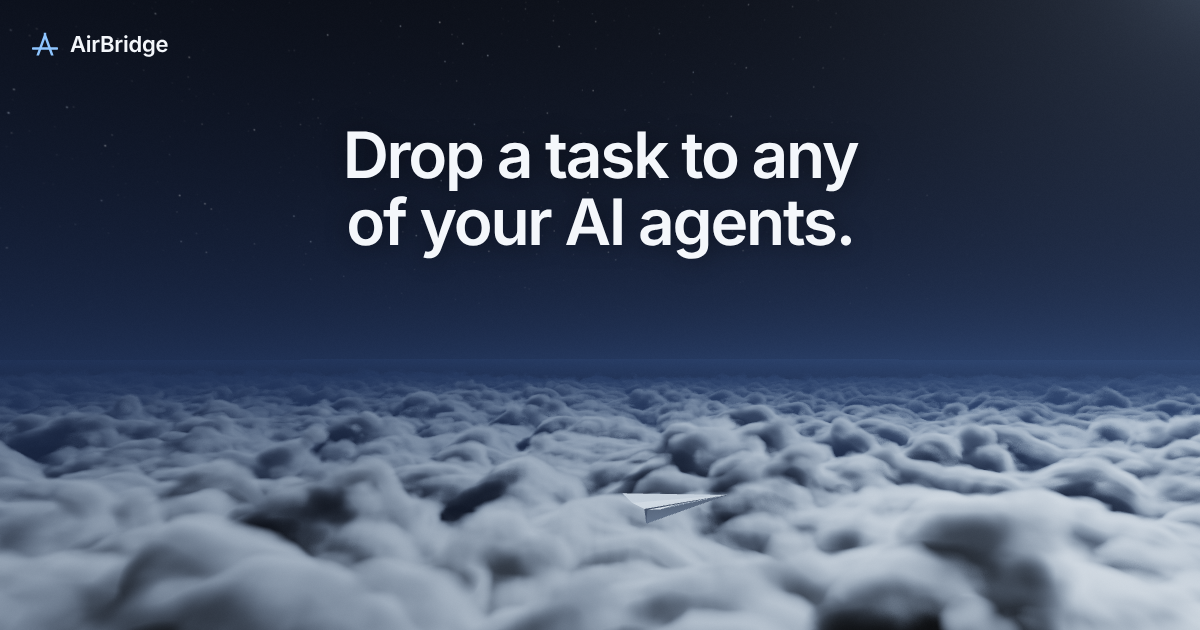
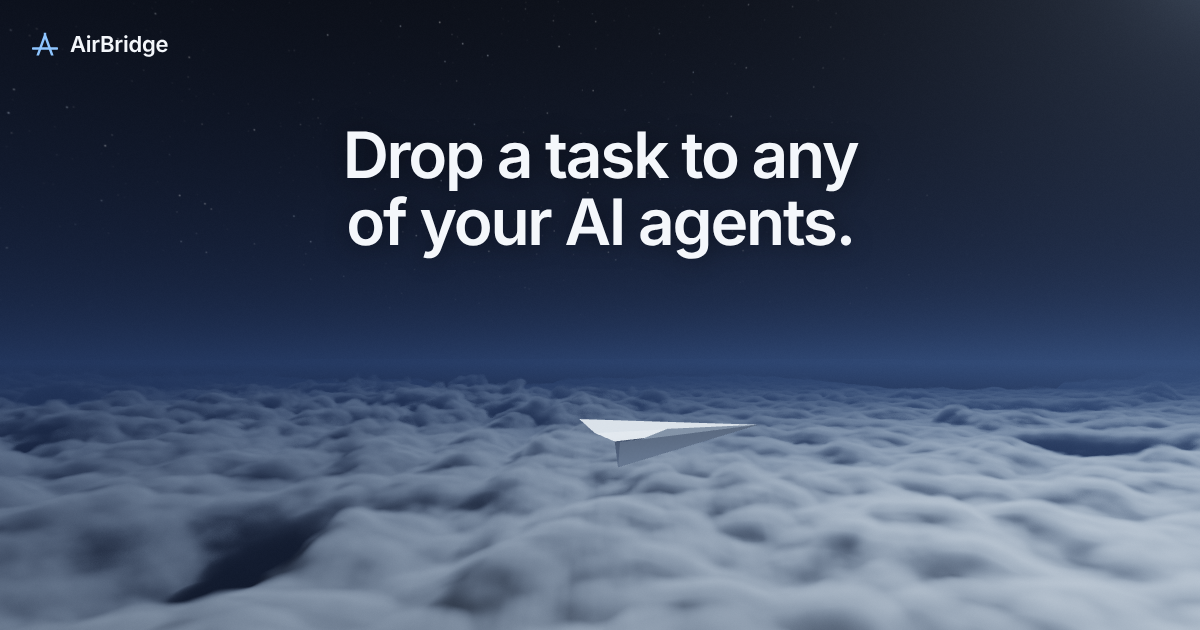
Landing: disable live cloud shader (glitches); show still poster
Claude-Session: https://claude.ai/code/session_01TELfCwuXZ5Qk43sSRkKQuj

Changed region(s): [[0.0, 0.6032, 1.0, 1.0], [0.0925, 0.6333, 0.1233, 0.6635]]

diff --git a/landing/hero.js b/landing/hero.js
@@ -41,6 +41,8 @@
 
   var reduce = window.matchMedia && window.matchMedia('(prefers-reduced-motion: reduce)').matches;
   if (reduce && !still) { usePoster('reduced-motion'); return; }
+  // Live shader disabled after field reports of glitches; poster only until the video hero ships.
+  if (!still) { usePoster('disabled'); return; }
 
   var gl = null;
   try {
